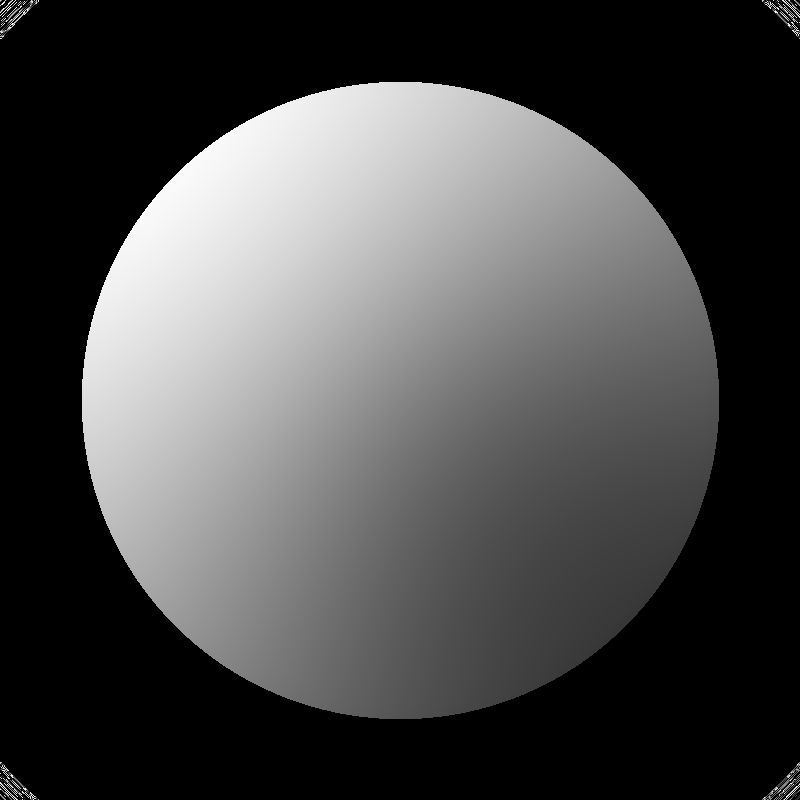
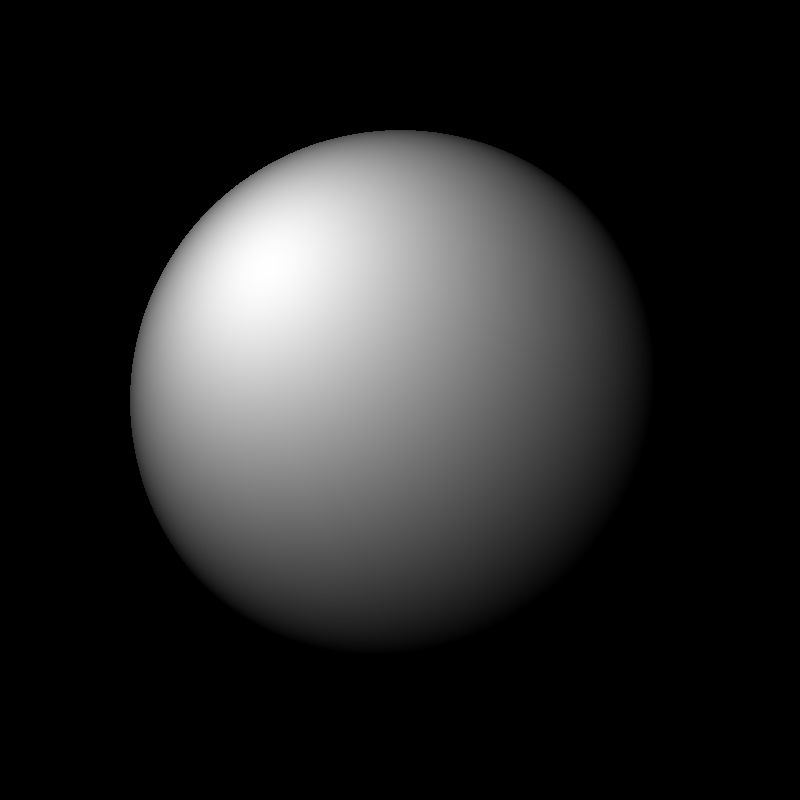
fix Lembert

diff --git a/march-shadow/src/main.rs b/march-shadow/src/main.rs
@@ -7,13 +7,15 @@
 
 #![feature(box_syntax)]
 
+extern crate num_traits;
 extern crate image;
 extern crate nalgebra as na;
 
 use std::fs::File;
 use std::path::Path;
+use num_traits::Float;
 
-use na::{Vector3, dot};
+use na::{Vector3, dot, Norm};
 
 mod objects;
 mod ray;
@@ -29,10 +31,10 @@ fn main() {
     let mut buf = image::ImageBuffer::new(size.0, size.1);
     let obj: Box<Object> = box Sphere {
         center: Vector3::new(0.5, 0.5, 0.5),
-        radius: 5.0,
+        radius: 2.0,
     };
     let light = Light {
-        origin: Vector3::new(1.0, 1.0, 1.0),
+        origin: Vector3::new(0.0, 0.0, -2.0),
     };
     let ray_origin = Vector3::new(0.5, 0.5, -2.0);
     for (x, y, pixel) in buf.enumerate_pixels_mut() {
@@ -45,13 +47,13 @@ fn main() {
         };
         if let Some(collision_pos) = ray.collision_pos(&obj) {
             let n = obj.normal(&collision_pos);
-            let l = light.origin - collision_pos;
-            let i = dot(&n, &l);
+            let l = collision_pos - light.origin;
+            let i = -dot(&n, &l) * 255.0 / n.norm() / l.norm();
             *pixel = image::Rgb {
                 data: [
-                    (i * 255.0) as u8,
-                    (i * 255.0) as u8,
-                    (i * 255.0) as u8]
+                    0.0.max(i) as u8,
+                    0.0.max(i) as u8,
+                    0.0.max(i) as u8]
             };
         }
     }

diff --git a/march-shadow/src/objects/sphere.rs b/march-shadow/src/objects/sphere.rs
@@ -5,7 +5,7 @@
   file LICENSE or copy at http://www.boost.org/LICENSE_1_0.txt)
 ============================================================================*/
 
-use na::{Vector3, normalize};
+use na::Vector3;
 use objects::Object;
 
 const EPS: f32 = 0.01;
@@ -29,7 +29,7 @@ impl Object for Sphere {
         let dx = self.distance(&(p + dvx)) - self.distance(&(p - dvx));
         let dy = self.distance(&(p + dvy)) - self.distance(&(p - dvy));
         let dz = self.distance(&(p + dvz)) - self.distance(&(p - dvz));
-        normalize(&Vector3::new(dx, dy, dz))
+        Vector3::new(dx, dy, dz)
     }
 }
 
